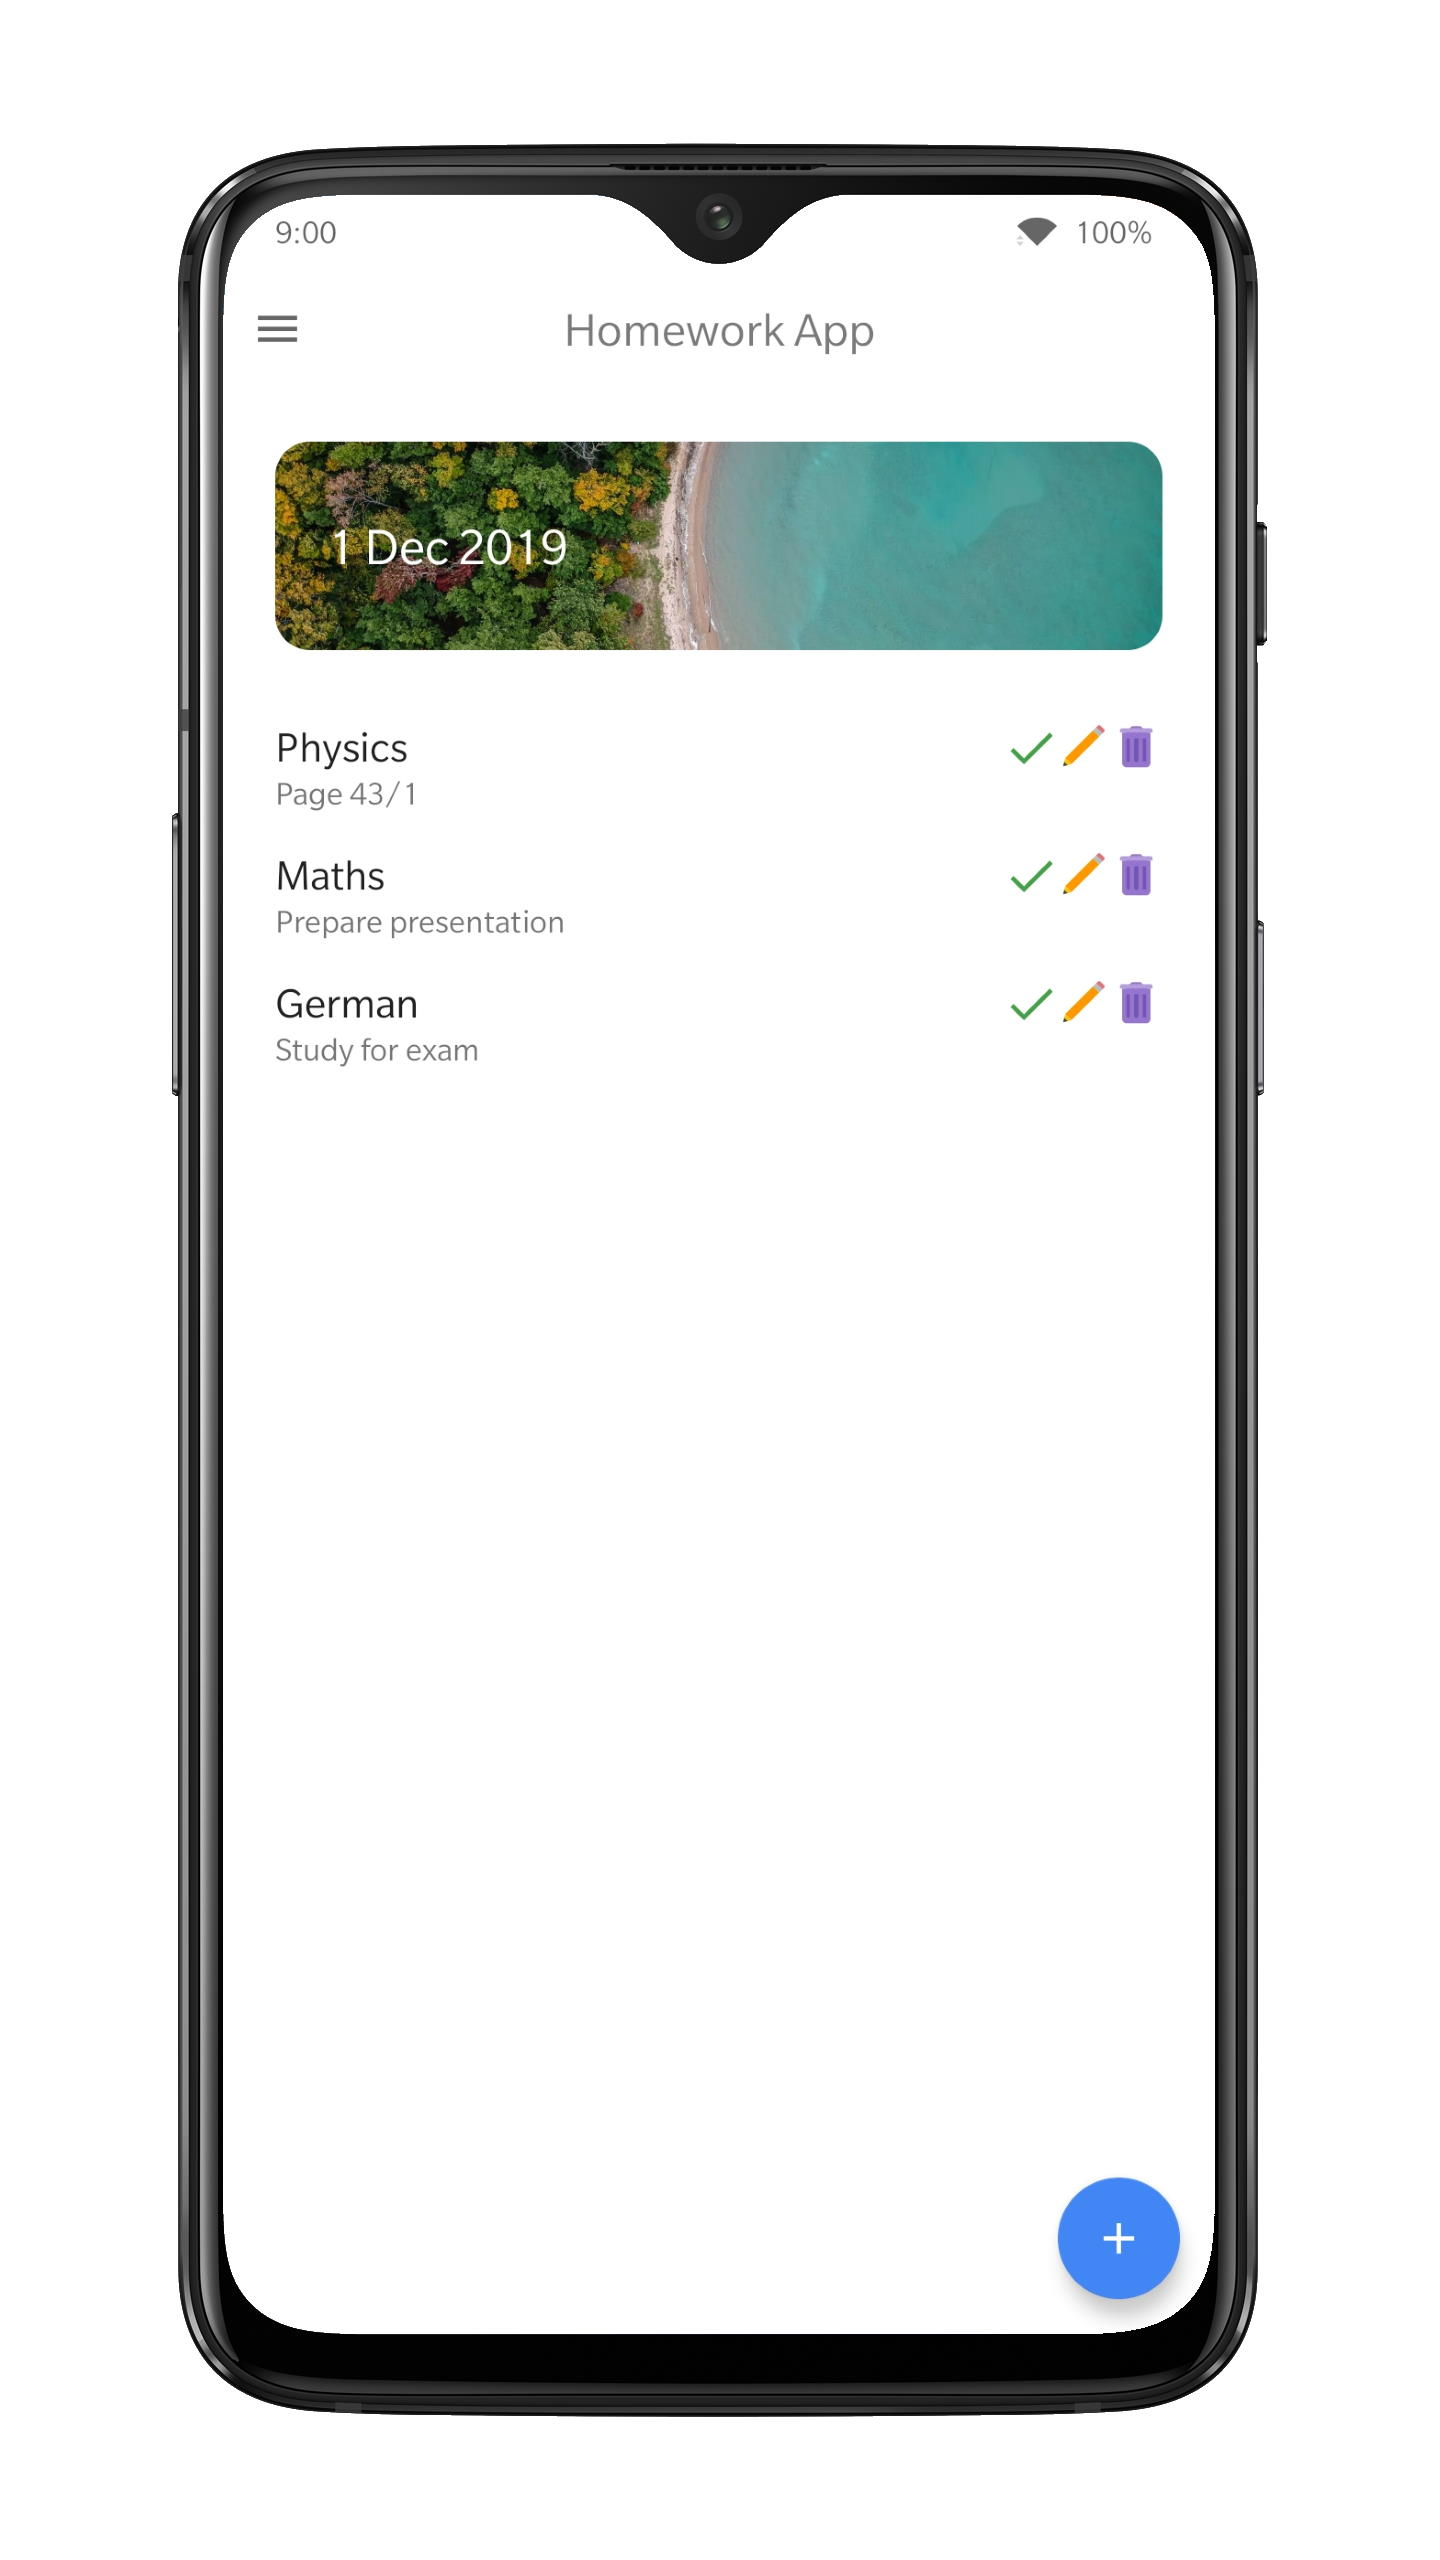
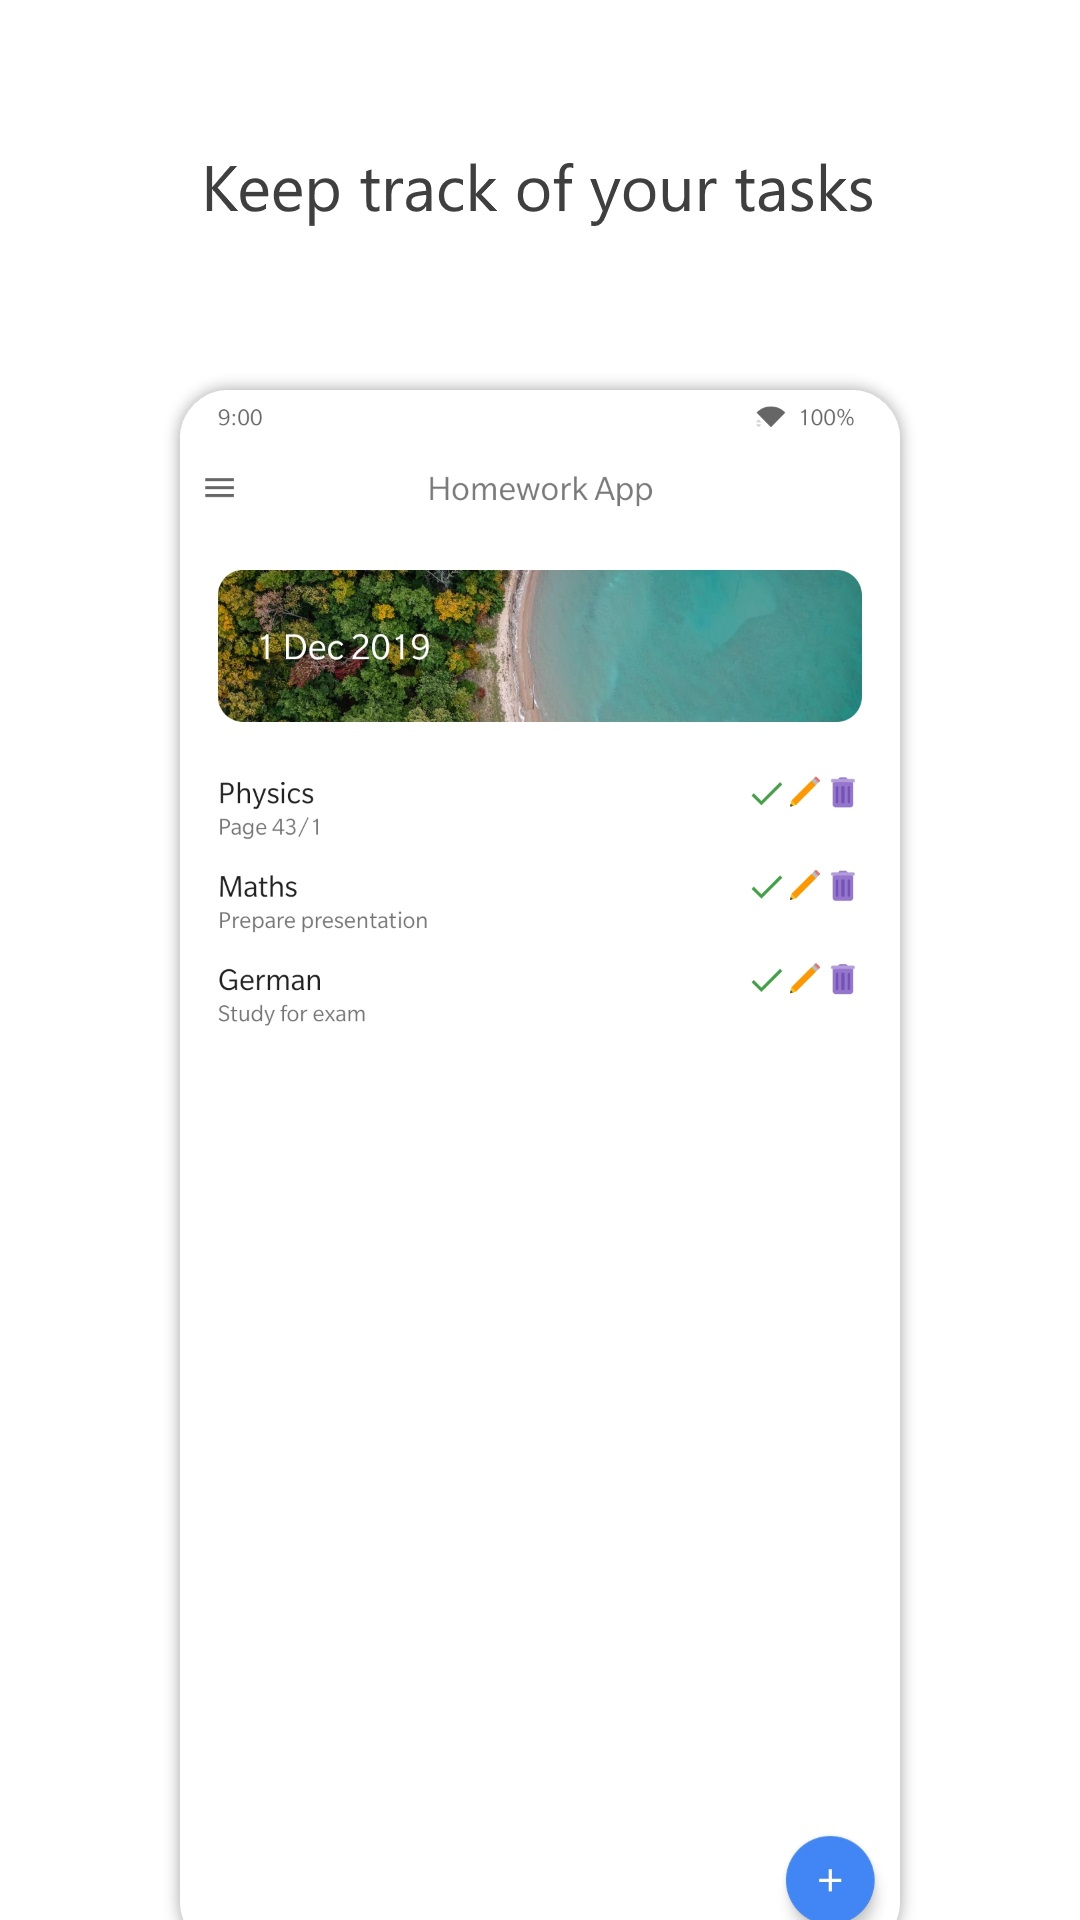
Update screenshots

Changed region(s): [[0.1222, 0.0312, 0.8861, 1.0], [0.2139, 0.5, 0.3056, 0.5312], [0.7333, 0.5, 0.7944, 0.5312]]

diff --git a/README.md b/README.md
@@ -5,7 +5,7 @@ With this app, you can keep track of what you are doing by conveniently typing t
 <a href='https://play.google.com/store/apps/details?id=io.github.domi04151309.homeworkapp'><img alt='Get it on Google Play' src='https://play.google.com/intl/en_us/badges/images/generic/en_badge_web_generic.png' height="80"/></a>
 
 ## Previews
-<img src="https://domi04151309.github.io/images/Android/HomeworkApp1.jpg" width="18%" /><img src="https://domi04151309.github.io/images/Android/HomeworkApp2.jpg" width="18%" /><img src="https://domi04151309.github.io/images/Android/HomeworkApp3.jpg" width="18%" />
+<img src="https://raw.githubusercontent.com/Domi04151309/HomeworkApp/master/fastlane/metadata/android/en-US/images/phoneScreenshots/1.jpg" width="18%" /><img src="https://raw.githubusercontent.com/Domi04151309/HomeworkApp/master/fastlane/metadata/android/en-US/images/phoneScreenshots/2.jpg" width="18%" /><img src="https://raw.githubusercontent.com/Domi04151309/HomeworkApp/master/fastlane/metadata/android/en-US/images/phoneScreenshots/3.jpg" width="18%" />
 
 <i style="color:gray;">Android, Google Play and the Google Play logo are trademarks of Google LLC.</i>
 
